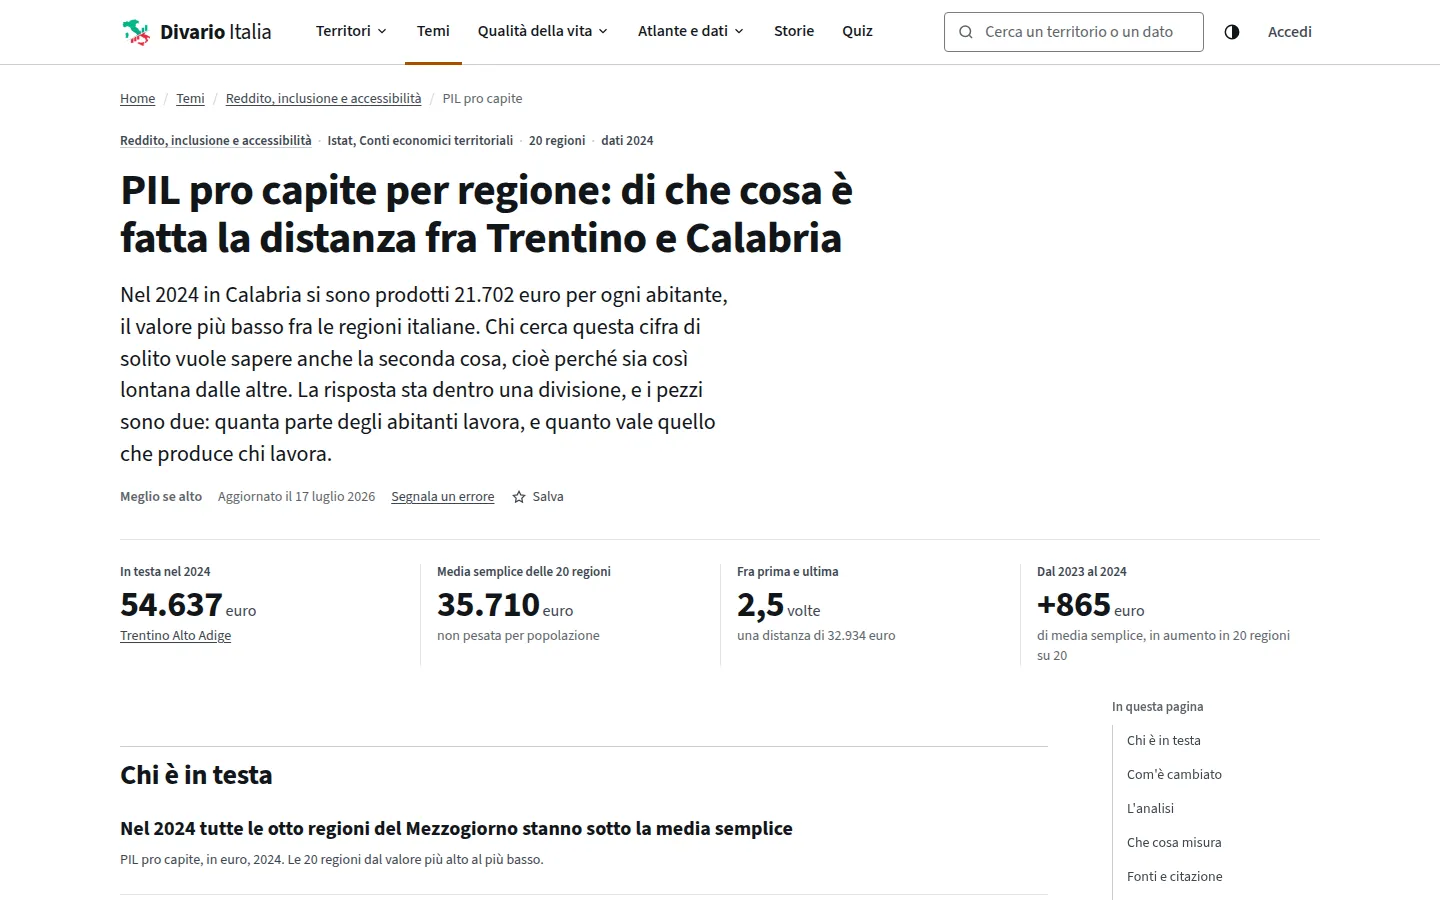
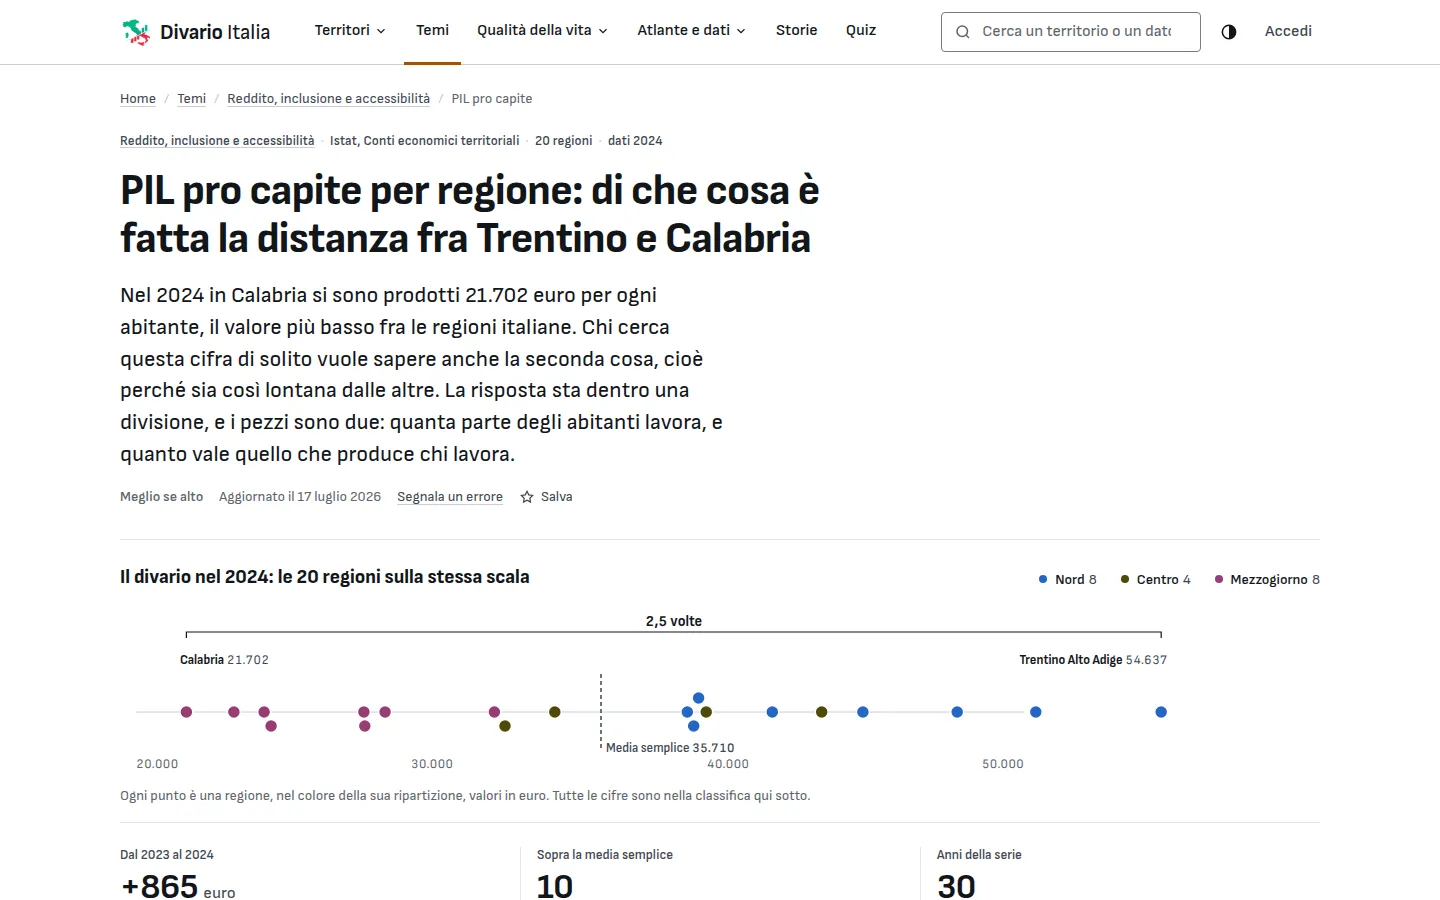
SISTEMA.md dice il carattere, le cifre e i grafici della seconda iterazione
Sofia Sans e la sua semi-condensata al posto di Source Sans 3, il sistema solo
delle cifre per ruoli, la striscia del divario, la serie a fascia, i richiami
sulla mappa, i colori fissi delle ripartizioni, i link in inchiostro fuori dalla
prosa, e i componenti che dalle pagine sono passati nel foglio comune.

diff --git a/design/v1/dist/pagine/indicatore.html b/design/v1/dist/pagine/indicatore.html
@@ -906,6 +906,7 @@ body.has-proto { padding-bottom: 96px; }
 .strip__name { font-size: 13px; }
 .strip__nm { fill: var(--ink); font-weight: 700; }
 .strip__v { fill: var(--text-2); }
+.strip__name--on .strip__nm { fill: var(--accent); }
 
 .band__grid { stroke: var(--rule); stroke-width: 1; }
 .band__tick { font-size: 13px; fill: var(--muted); }

diff --git a/design/v1/SISTEMA.md b/design/v1/SISTEMA.md
@@ -19,20 +19,26 @@ dei clic da Google e l'84% delle impression: il sistema si misura su di loro.
 Giornalismo dati sul modello di Reuters Graphics, con l'attenzione di The
 Upshot per il testo che accompagna il dato.
 
-- **Fondo bianco, una sola famiglia**: Source Sans 3 variabile (OFL). Titoli,
-  prosa, interfaccia, numeri ed etichette dei grafici. Il monospazio resta solo
-  per i codici (id di serie, URL da copiare).
-- **Un solo accento**, arancio bruciato, per cio' che si clicca e per l'unico
-  elemento in evidenza in un grafico. Mai un colore dei dati, mai un giudizio.
+- **Fondo bianco, una famiglia con due larghezze**: Sofia Sans (OFL) per il testo
+  e l'interfaccia, Sofia Sans Semi Condensed per i titoli e le cifre. Scelta su
+  uno specimen col contenuto vero contro Mona Sans (in colonna lo zero diventa
+  barrato), Schibsted Grotesk e Source Serif 4. Il monospazio resta solo per i
+  codici.
+- **Un solo accento**, arancio bruciato, per la prosa linkata, l'azione
+  principale e l'unico elemento in evidenza in un grafico. I link degli elenchi,
+  delle schede e delle tabelle sono in inchiostro. Mai un colore dei dati, mai un
+  giudizio.
 - **I dati in blu**, rampa sequenziale a sei passi. Divergente blu e ocra solo
-  quando il centro e' il valore Italia. Nessun verde e nessun rosso fuori dal
+  quando il centro e' il valore Italia. **Le ripartizioni hanno un colore fisso**,
+  uguale in ogni grafico e nei pallini delle classifiche: Nord blu, Centro oliva,
+  Mezzogiorno prugna, verificati per i daltonici (`area-*` nei token). Nessun verde e nessun rosso fuori dal
   simbolo del marchio, cosi' una mappa non richiama mai il nord verde e il sud
   rosso del logo.
 - **Regia**: ogni pagina apre con la risposta, il numero e un grafico, non con
   un paragrafo. Allineamento a sinistra sotto il marchio. La struttura la fanno
   l'aria e i filetti, mai una scatola dentro l'altra.
 - **Marchio**: il simbolo (Italia verde e rossa con le barre) resta com'e'. Il
-  wordmark si compone in Source Sans 3, "Divario" a 700 e "Italia" a 400, sempre
+  wordmark si compone in Sofia Sans, "Divario" a 700 e "Italia" a 400, sempre
   in inchiostro. Niente accento a meno di 24px dal simbolo.
 
 ## Griglia
@@ -75,9 +81,18 @@ Una scala di undici ruoli, nominati per funzione:
 | cifra di tessera | 36/38, peso 700 | 28/30 | tessere numero |
 
 - Le etichette sono in minuscolo con l'iniziale maiuscola: mai tutto maiuscolo,
-  mai monospazio. 13px e' il minimo, perche' Source Sans ha l'occhio medio
-  piccolo.
-- Cifre tabellari in ogni colonna. **La riga in evidenza non va mai in
+  mai monospazio. 13px e' il minimo. La scala e' tarata su un occhio medio di
+  0,49 e `font-size-adjust` la tiene uguale se si cambia famiglia.
+- **Le cifre hanno un sistema solo**, `tools/numfmt.py`, per ruoli: cifra (tessere
+  e frasi, decimali dalla grandezza), cella (decimali uguali per tutta la
+  colonna), punteggio (un decimale), rapporto (un decimale), variazione (sempre
+  col segno, "invariato" sullo zero), posizione ("14ª su 20"), conteggio
+  (intero). Il segno negativo e' il meno tipografico. Ogni cifra e' un `<data
+  value>` col valore per le macchine. L'unita' segue piu' piccola e in
+  `--text-2`, la percentuale resta attaccata. I template non formattano mai: usano
+  i filtri `num`, `rank`, `delta`.
+- Fuori dalle colonne le cifre sono proporzionali (in una tessera le tabellari
+  lasciano buchi), in colonna sono tabellari. **La riga in evidenza non va mai in
   grassetto**: a peso 700 le cifre sono piu' larghe e rompono l'incolonnamento.
   L'evidenza la fanno il fondo e una barretta di 3px.
 - Corsivo vero, caricato solo dove serve.
@@ -141,18 +156,33 @@ Venticinque, e ognuno prende il posto delle sue varianti di oggi.
   colorata ("Serie ferma al 2015", "Citta' metropolitana", "n.d.").
 - **Slot pubblicitario**: vedi sotto.
 
+### I grafici
+
+- **La striscia del divario** e' il segno della 1.0: ogni territorio un punto
+  sulla stessa scala, nel colore della sua ripartizione, i due estremi nominati,
+  la media semplice, la distanza fra primo e ultimo (in volte, o in punti per i
+  punteggi). Apre ogni pagina il cui argomento e' un divario, e sulle pagine di
+  un territorio ne evidenzia il punto.
+- **La serie a fascia**: la fascia fra il valore piu' alto e il piu' basso di
+  ogni anno, la media semplice tratteggiata, i due territori agli estremi nel
+  colore della loro ripartizione. La larghezza della fascia e' il divario nel
+  tempo.
+- **La mappa nomina i suoi estremi** con un richiamo che parte dal baricentro
+  del pezzo piu' grande della regione.
+- Ogni grafico esce in due tagli, largo e stretto, perche' il testo resti a
+  12-13 pixel veri anche sul telefono, e ha accanto una tabella con gli stessi
+  dati. Si disegna lato server in `tools/charts.py`, i colori stanno nel CSS.
+
 ### Dove stanno oggi
 
-Il foglio comune e' `src/css/components.css`. Alcuni componenti del catalogo sono
-nati dentro una pagina e stanno ancora nel suo foglio in `src/css/pages/`, con il
-prefisso della pagina: la classifica con la barra del punteggio e le righe che
-diventano blocchi sotto i 720 pixel (`qdv-rank`), la tabella che sotto i 560
-pixel diventa blocchi etichettati (`regione-all`, `provincia-*`), la traccia di
-posizione da 1 a N (`regione-track`), il localizzatore (`regione-loc`,
-`provincia-loc`), la barra divergente attorno a 50 (`provincia-div`), la figura
-dell'articolo con la tabella dei valori (`art-fig`, `art-bars`). Sono lo stesso
-componente scritto una volta: nella migrazione passano nel foglio comune col
-nome del catalogo.
+Il foglio comune e' `src/css/components.css`. I componenti nati dentro una
+pagina nella prima iterazione hanno ora una versione comune: la classifica col
+punteggio (`.table--rank`), la tabella che sotto i 560 pixel diventa blocchi
+etichettati (`.table--stack`), la traccia di posizione (`.track`), il
+localizzatore (macro `locator`), la barra attorno a 50 (`.divbar`), il podio
+(`.podiums`), la figura dell'articolo (`.figure`), l'immagine d'apertura
+(`.hero-img`). I fogli in `src/css/pages/` tengono solo l'impaginazione propria
+di una pagina.
 
 ## Pagine
 
